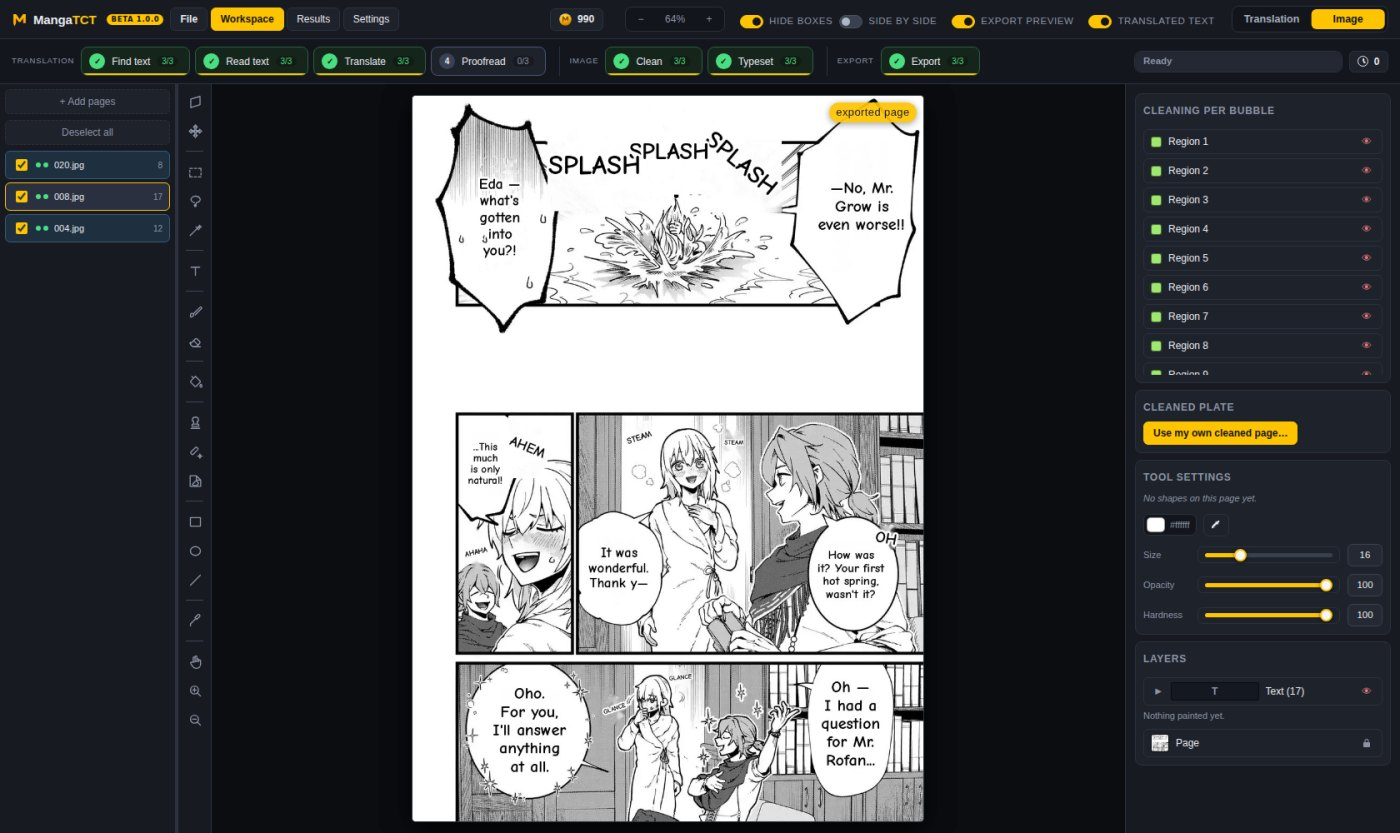
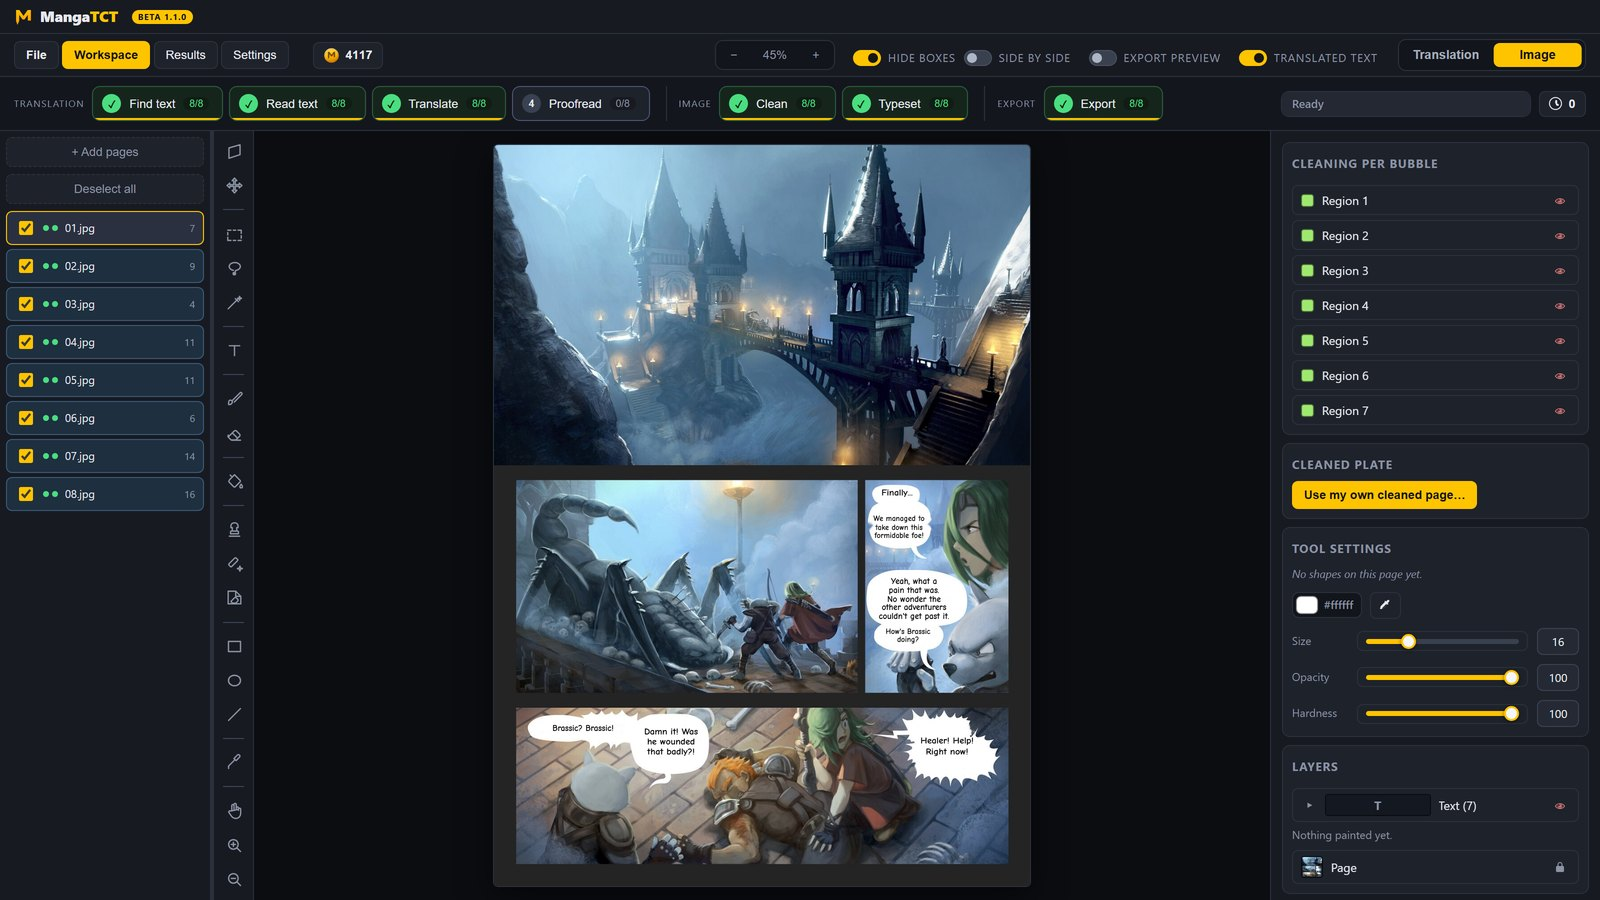
Site: new hero screenshot, tutorial videos on the Guide page
- Home hero: the 1.1.0 workspace on a finished Pepper&Carrot page, with the
  comic's credit (CC BY 4.0) under the picture.
- Guide: a video spot at the top of each tab and in the Typeset step, for the
  seven tutorial videos on YouTube. A spot builds the youtube-nocookie player
  only when its play button is pressed, so the page loads nothing from YouTube
  until somebody asks for a video.
- Privacy: says the Guide videos are on YouTube and load only on play.

diff --git a/site/tutorial.html b/site/tutorial.html
@@ -75,6 +75,27 @@ table.keys td:first-child{white-space:nowrap;width:1%}
 .note b{color:var(--ink)}
 .cols{display:grid;grid-template-columns:1fr 1fr;gap:16px}
 @media (max-width:700px){.cols{grid-template-columns:1fr}}
+/* The video spots - lee: "for th etutorial maake soe viodes ... ill upload to
+   uputube makes oosme spots to embed the into the page". Each spot keeps its
+   YouTube id in data-yt. Empty, it says the video is coming. Filled, it shows a
+   play button and only builds the YouTube player when that is pressed, so the
+   page still loads nothing from anyone else until somebody asks for a video. */
+.vid{position:relative;margin:18px 0;border:1px solid var(--line);
+ border-radius:14px;overflow:hidden;background:var(--panel2);aspect-ratio:16/9}
+.vid iframe{position:absolute;inset:0;width:100%;height:100%;border:0}
+.vid .vplay{appearance:none;position:absolute;inset:0;width:100%;border:0;
+ background:var(--panel2);color:var(--ink);font:inherit;cursor:pointer;
+ display:flex;flex-direction:column;align-items:center;justify-content:center;
+ gap:10px;padding:16px;text-align:center}
+.vid .vplay i{width:64px;height:64px;border-radius:50%;background:var(--accent);
+ display:flex;align-items:center;justify-content:center}
+.vid .vplay i::after{content:"";margin-left:5px;border-style:solid;
+ border-width:12px 0 12px 20px;
+ border-color:transparent transparent transparent var(--on-accent)}
+.vid .vplay b{font-size:17px}
+.vid .vplay span{font-size:13.5px;color:var(--dim)}
+.vid.soon .vplay{cursor:default}
+.vid.soon .vplay i{background:var(--line2)}
 </style>
 
 <header>
@@ -114,6 +135,8 @@ table.keys td:first-child{white-space:nowrap;width:1%}
     <h2>From a folder of raw pages to a translated chapter</h2>
     <p class="lede">The short version. Each of these steps has its own tab
       above with the details.</p>
+
+    <div class="vid soon" data-yt="GiXX3D6Qun0" data-title="Getting started: from raw pages to a translated chapter"><button class="vplay" type="button" disabled><i></i><b>Getting started: from raw pages to a translated chapter</b><span>Video coming soon</span></button></div>
 
     <ol class="steps">
       <li><b>Add your pages</b>
@@ -162,6 +185,8 @@ table.keys td:first-child{white-space:nowrap;width:1%}
     <h2>What each step does</h2>
     <p class="lede">Run them in order the first time. After that, rerun any
       one of them whenever you change something.</p>
+
+    <div class="vid soon" data-yt="KSDqlmFXiME" data-title="The seven steps, on a whole chapter"><button class="vplay" type="button" disabled><i></i><b>The seven steps, on a whole chapter</b><span>Video coming soon</span></button></div>
 
     <div class="tabs sub" role="tablist" id="steptabs">
       <button class="tb" role="tab" aria-selected="true"  aria-controls="s-find">1 Find text</button>
@@ -269,6 +294,8 @@ table.keys td:first-child{white-space:nowrap;width:1%}
       <p>Sets the English into every balloon: picks a size that fits, breaks
       the lines, centres the block, and keeps effects like outlines and
       colour. Rerunning it is instant, so tweak as much as you like.</p>
+
+      <div class="vid soon" data-yt="z_E3BPc8QK8" data-title="Styling a block: font, size, outline, curve and glow"><button class="vplay" type="button" disabled><i></i><b>Styling a block: font, size, outline, curve and glow</b><span>Video coming soon</span></button></div>
       <figure class="shot"><img src="assets/tut-typeset.jpg" loading="lazy"
         alt="A finished typeset page in English">
         <figcaption>The page from the Clean step, finished. Every line still
@@ -336,6 +363,8 @@ table.keys td:first-child{white-space:nowrap;width:1%}
     <h2>Every piece of text lives in a box</h2>
     <p class="lede">Find text draws them, but they are yours: move them,
       retype them, merge them, delete them. This tab is the toolbox.</p>
+
+    <div class="vid soon" data-yt="y2AO-Tzqk48" data-title="Working with boxes"><button class="vplay" type="button" disabled><i></i><b>Working with boxes</b><span>Video coming soon</span></button></div>
 
     <div class="tabs sub" role="tablist" id="boxtabs">
       <button class="tb" role="tab" aria-selected="true"  aria-controls="b-types">The three types</button>
@@ -430,6 +459,8 @@ table.keys td:first-child{white-space:nowrap;width:1%}
     <p class="lede">Settings has a page for everything. Here is the whole rail
       first, so you know where a thing lives, and then the ones a new chapter
       actually needs.</p>
+
+    <div class="vid soon" data-yt="Oio5jDo6Y2g" data-title="A tour of Settings"><button class="vplay" type="button" disabled><i></i><b>A tour of Settings</b><span>Video coming soon</span></button></div>
 
     <h3>Everything in the Settings rail</h3>
     <p>Two groups down the left-hand side. <b>Story</b> is what this series
@@ -603,6 +634,8 @@ table.keys td:first-child{white-space:nowrap;width:1%}
     <p class="eyebrow">Tips and fixes</p>
     <h2>The things everyone asks in the first week</h2>
 
+    <div class="vid soon" data-yt="FJ3698gQDFY" data-title="Tips and fixes"><button class="vplay" type="button" disabled><i></i><b>Tips and fixes</b><span>Video coming soon</span></button></div>
+
     <div class="cols">
       <div class="card"><h3>Stop means stop</h3>
         <p>The Stop button cancels the page being worked on, not just the
@@ -668,6 +701,8 @@ table.keys td:first-child{white-space:nowrap;width:1%}
   <section class="sect" id="t-help" role="tabpanel" hidden>
     <p class="eyebrow">Updates and help</p>
     <h2>Which version you are on, and what to do when something breaks</h2>
+
+    <div class="vid soon" data-yt="XkpZm-cEihE" data-title="Updates and getting help"><button class="vplay" type="button" disabled><i></i><b>Updates and getting help</b><span>Video coming soon</span></button></div>
 
     <h3>The pill in the header</h3>
     <p>Next to the MangaTCT wordmark, top left, is a small pill. It is the
@@ -778,6 +813,27 @@ function wire(stripId){
   });
 }
 wire('maintabs'); wire('steptabs'); wire('boxtabs'); wire('settabs');
+
+/* The video spots. Paste a video's YouTube id into its data-yt (the part
+   after watch?v= in the link) and the spot turns into a play button. The
+   player is only built when that button is pressed, from youtube-nocookie,
+   so nothing is fetched from YouTube for somebody who never presses play. */
+[].forEach.call(document.querySelectorAll('.vid'), function(v){
+  var id = (v.getAttribute('data-yt') || '').trim(), b = v.querySelector('.vplay');
+  if (!id || !b) return;
+  v.classList.remove('soon');
+  b.disabled = false;
+  b.querySelector('span').textContent = 'Play the video';
+  b.addEventListener('click', function(){
+    var f = document.createElement('iframe');
+    f.src = 'https://www.youtube-nocookie.com/embed/' + encodeURIComponent(id) + '?autoplay=1&rel=0';
+    f.title = v.getAttribute('data-title') || 'Video';
+    f.allow = 'accelerometer; autoplay; clipboard-write; encrypted-media; picture-in-picture';
+    f.allowFullscreen = true;
+    v.innerHTML = '';
+    v.appendChild(f);
+  });
+});
 
 /* The theme button: same storage key as every other page, no CDN needed. */
 (function(){

diff --git a/site/index.html b/site/index.html
@@ -176,6 +176,7 @@ header{position:sticky;top:0;z-index:60;background:var(--bg);
 .hero .lead{font-size:19.5px;max-width:60ch}
 .cta{display:flex;gap:12px;flex-wrap:wrap;margin:28px 0 10px;align-items:center}
 .note{color:var(--dim2);font-size:13.5px}
+.herocredit{margin:10px 2px 0;font-size:13px;color:var(--dim)}
 .heroshot{margin-top:44px;border:1px solid var(--line);border-radius:var(--r);
  overflow:hidden;background:var(--panel);box-shadow:var(--shadow);
  transition:transform .3s ease-out;will-change:transform}
@@ -608,6 +609,10 @@ html:not(.nojs) .subbar~.spn{background:var(--bg2);border-top:1px solid var(--li
   </div>
   <p class="note">Windows 10 and 11. Version 1.1.0 (beta).</p>
   <div class="heroshot"><img src="assets/ui-hero.jpg" alt="The MangaTCT workspace: a chapter typeset in English, with the seven steps across the top and the cleaning panel on the right" loading="lazy"></div>
+  <!-- lee: *"update the website hero screenshot with the new ones"*. The page
+       in it is Pepper&Carrot, whose licence (CC BY 4.0) asks for the credit
+       wherever the picture is shown, so the credit sits right under it. -->
+  <p class="herocredit">The comic on screen: Pepper&amp;Carrot by David Revoy, CC BY 4.0.</p>
   <div class="stats">
     <span class="stat"><b>3</b><span>formats, end to end</span></span>
     <span class="stat"><b>7</b><span>steps, run in any order</span></span>

diff --git a/site/privacy.html b/site/privacy.html
@@ -120,6 +120,8 @@ if(t)d.dataset.theme=t}catch(e){}</script>
       receive the ordinary details of every request, such as your IP address.
       The sign-in code is loaded from Google's servers too.</li>
     <li>The Fonts page shows previews loaded from Google Fonts.</li>
+    <li>The videos on the Guide page are on YouTube. Nothing is loaded from
+      YouTube until you press play on one.</li>
   </ul>
 
   <h2>Updates and downloads</h2>

diff --git a/site/build.py b/site/build.py
@@ -836,6 +836,7 @@ header{{position:sticky;top:0;z-index:60;background:var(--bg);
 .hero .lead{{font-size:19.5px;max-width:60ch}}
 .cta{{display:flex;gap:12px;flex-wrap:wrap;margin:28px 0 10px;align-items:center}}
 .note{{color:var(--dim2);font-size:13.5px}}
+.herocredit{{margin:10px 2px 0;font-size:13px;color:var(--dim)}}
 .heroshot{{margin-top:44px;border:1px solid var(--line);border-radius:var(--r);
  overflow:hidden;background:var(--panel);box-shadow:var(--shadow);
  transition:transform .3s ease-out;will-change:transform}}
@@ -1262,6 +1263,10 @@ html:not(.nojs) .subbar~.spn{{background:var(--bg2);border-top:1px solid var(--l
     'The MangaTCT workspace: a chapter typeset in English, with the seven '
     'steps across the top and the cleaning panel on the right',
     'The workspace on a finished chapter, the whole window', '16 / 10')}</div>
+  <!-- lee: *"update the website hero screenshot with the new ones"*. The page
+       in it is Pepper&Carrot, whose licence (CC BY 4.0) asks for the credit
+       wherever the picture is shown, so the credit sits right under it. -->
+  <p class="herocredit">The comic on screen: Pepper&amp;Carrot by David Revoy, CC BY 4.0.</p>
   <div class="stats">
     <span class="stat"><b>3</b><span>formats, end to end</span></span>
     <span class="stat"><b>7</b><span>steps, run in any order</span></span>
